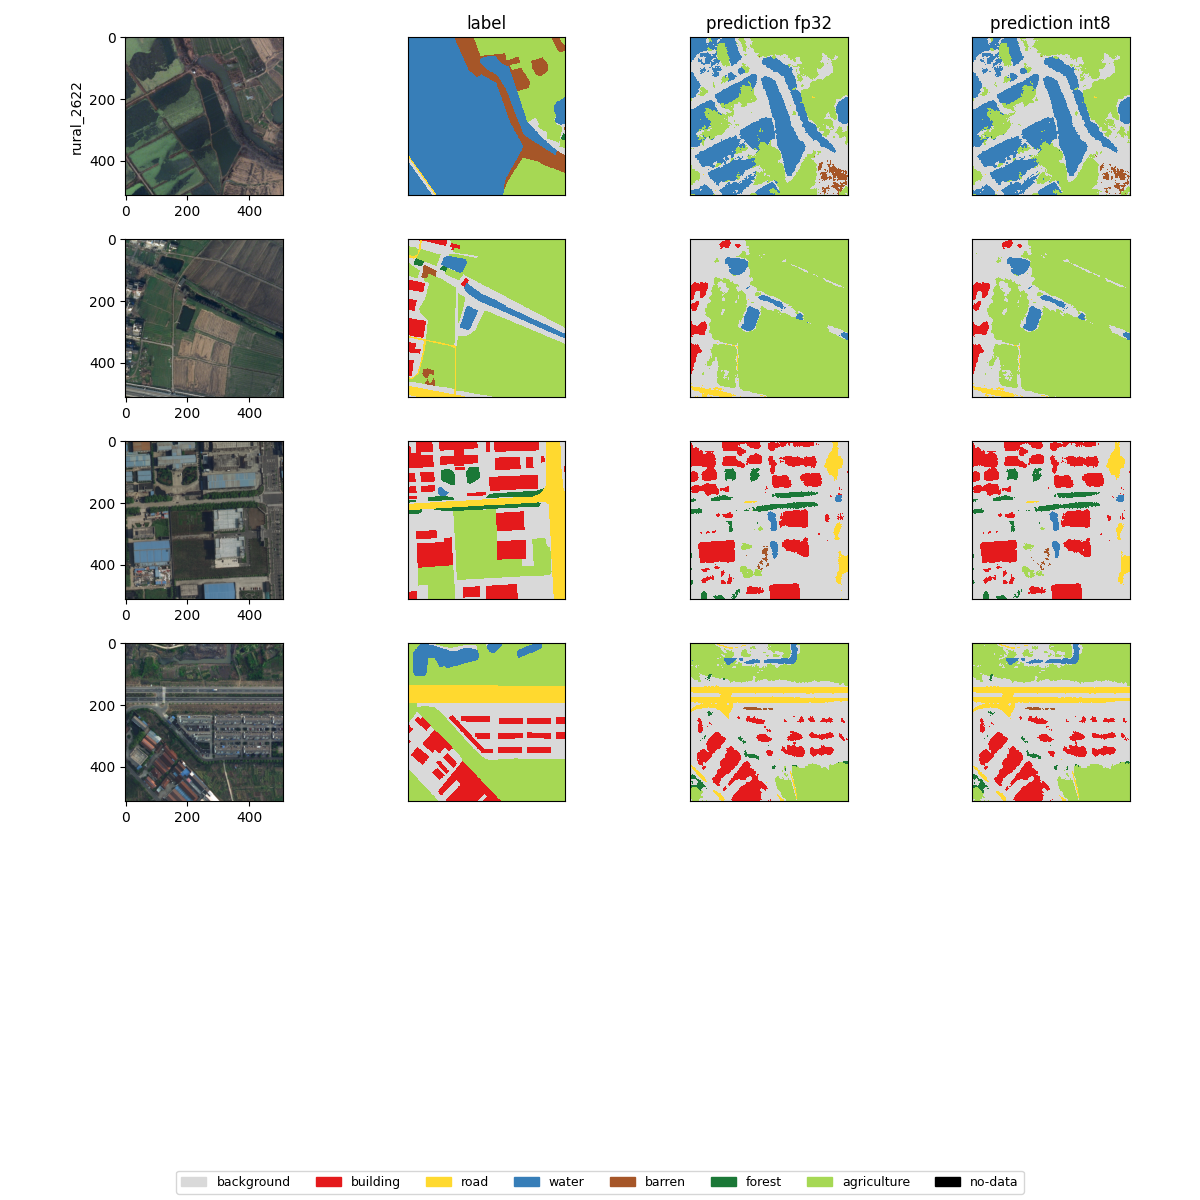
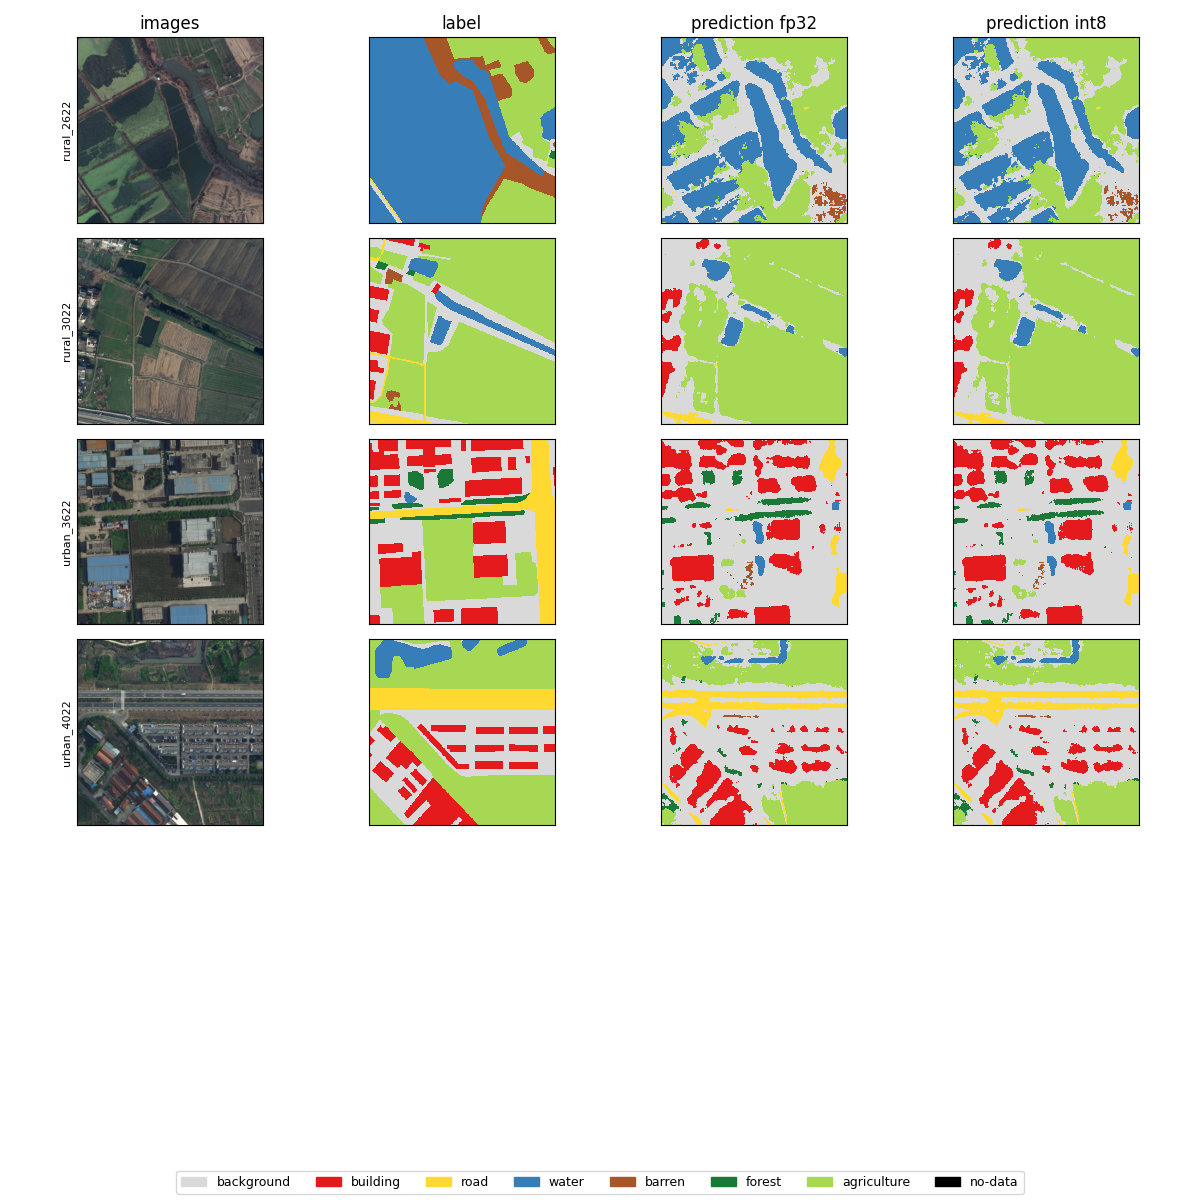
Add prediction figure: image, label, fp32 and int8 on four test tiles

diff --git a/scripts/make_figures.py b/scripts/make_figures.py
@@ -45,12 +45,13 @@ def main():
             if col == 0:
                 ax.imshow(panel)
             else:
-                ax.imshow(panel, cmap=cmap, vmin=0, vmax=len(CLASSES), interpolation="nearest")
-                ax.set_xticks([])
-                ax.set_yticks([])
-                if row == 0:
-                    ax.set_title(titles[col])
-                    axes[row, 0].set_ylabel(ds.images[index].stem, fontsize=10)
+                ax.imshow(panel, cmap=cmap, vmin=0, vmax=len(CLASSES),
+                          interpolation="nearest")
+            ax.set_xticks([])
+            ax.set_yticks([])
+            if row == 0:
+                ax.set_title(titles[col])
+        axes[row, 0].set_ylabel(ds.images[index].stem, fontsize=8)
 
     legend = [Patch(color=c, label=n) for c, n in zip(COLOURS, CLASSES + ["no-data"])]
     fig.legend(handles=legend, loc="lower center", ncol=8, fontsize=9)

diff --git a/README.md b/README.md
@@ -15,7 +15,7 @@ numbers measured by the scripts in this repository.
 - [x] Evaluation (mean IoU per class)
 - [x] ONNX export and parity check
 - [x] Benchmark: model size and CPU latency
-- [ ] Results table and prediction images
+- [x] Results table and prediction images
 
 ## Data
 
@@ -50,6 +50,10 @@ python scripts/explore_data.py
 | forest | 38.1 | 38.1 | 38.0 |
 | agriculture | 39.0 | 39.0 | 38.3 |
 | **mIoU** | **37.1** | **37.1** | **36.7** |
+
+![Predictions on four test tiles](docs/predictions.png)
+
+Images and labels: LoveDA (Wang et al., NeurIPS 2021), CC BY-NC-SA 4.0.
 
 On the validation split cut from Train, mIoU is 53.4 %. The 16-point gap
 comes from the official Val images covering different regions with a
